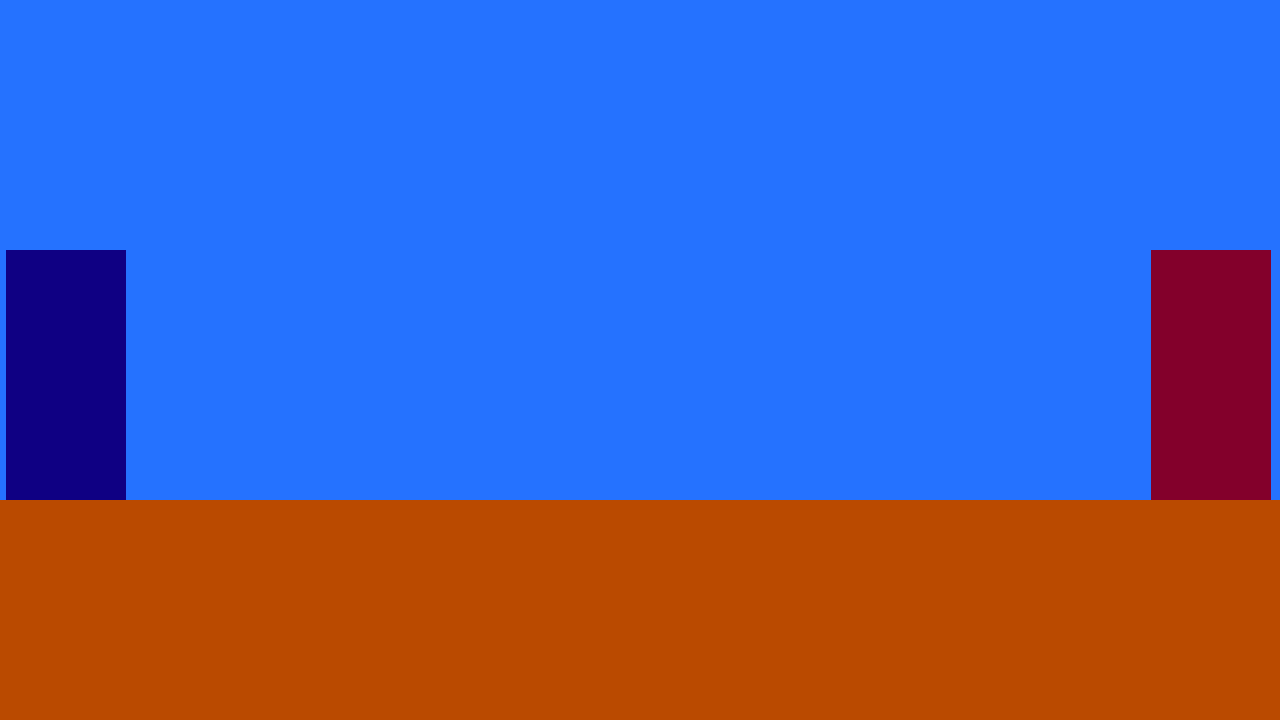
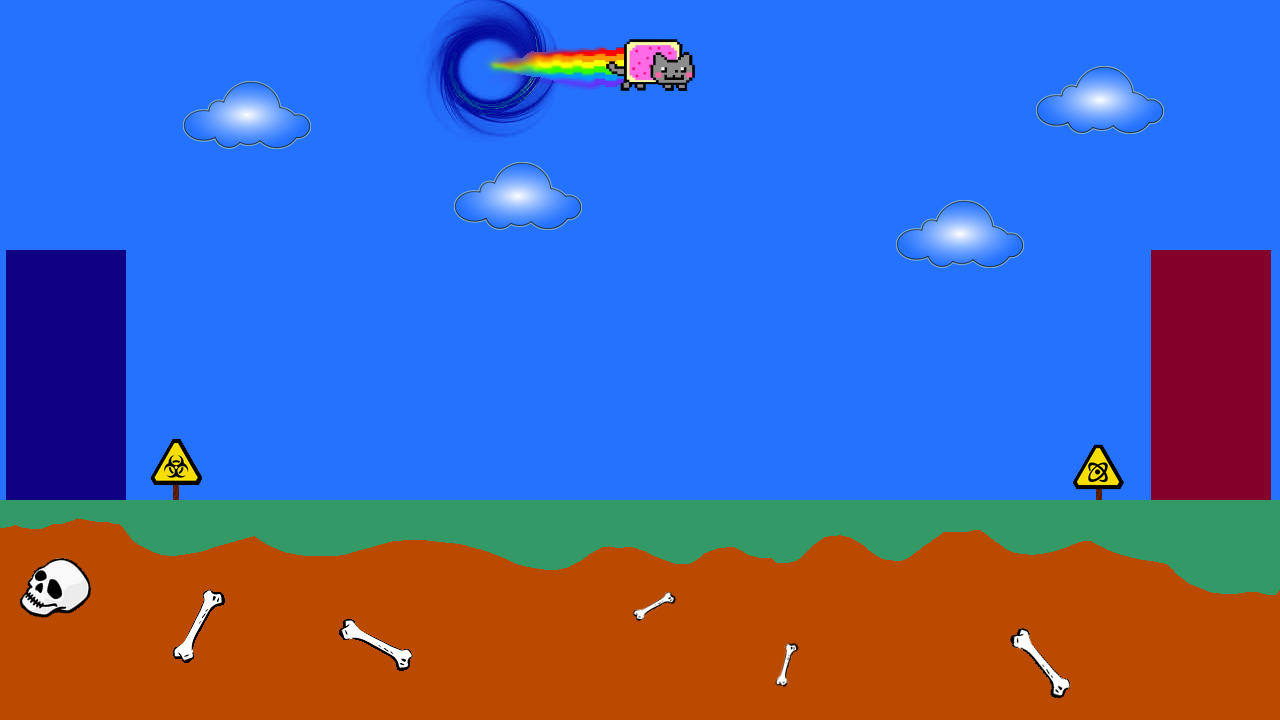
Nouveau Fond <3

diff --git a/src/aow/entity/Player.java b/src/aow/entity/Player.java
@@ -32,7 +32,13 @@ public class Player {
 		PVMax=HP;
 	}
 	
-	
+	public void takeDamage(int degat) {
+		PV=PV-degat;
+		if (PV<=0) {
+			System.out.println("Défaite du joueur "+ID);
+			System.exit(0);
+		}
+	}
 	
 	public int getHp()
 	{
